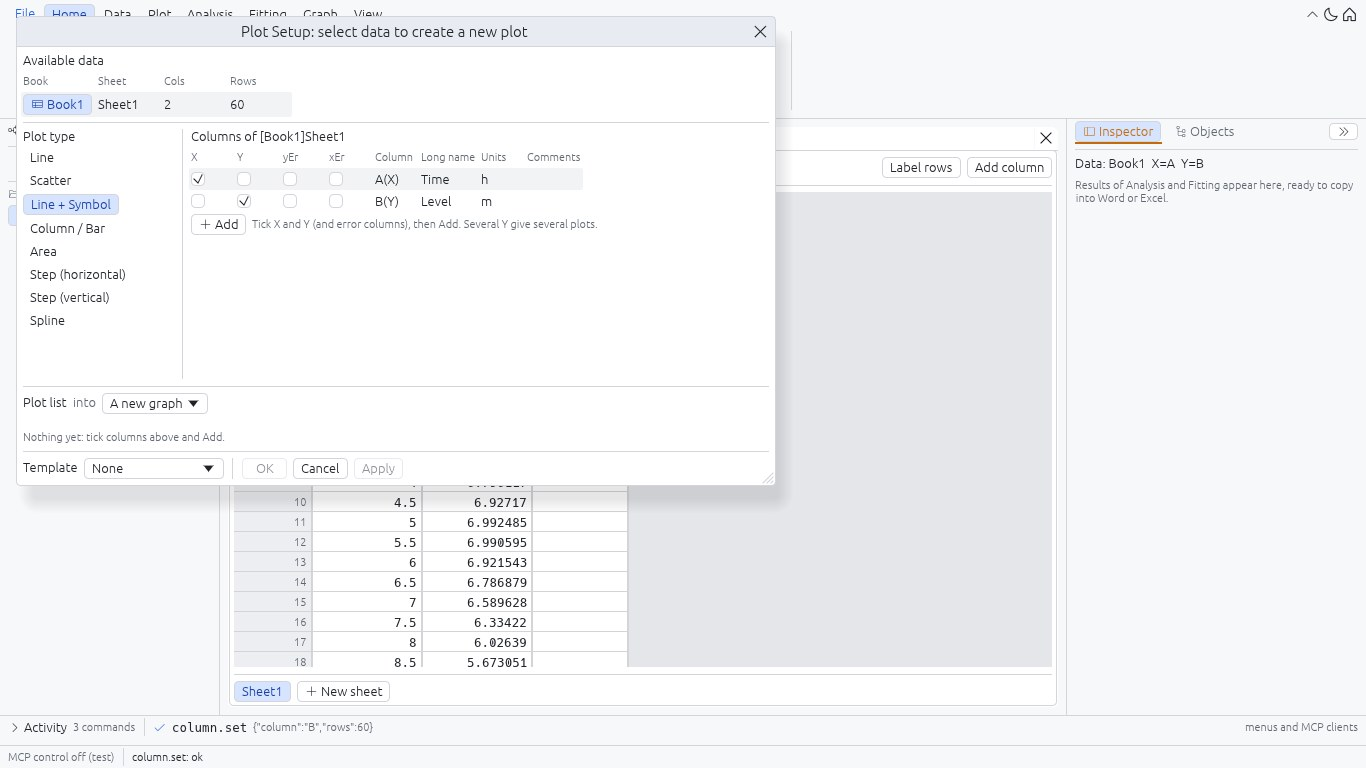
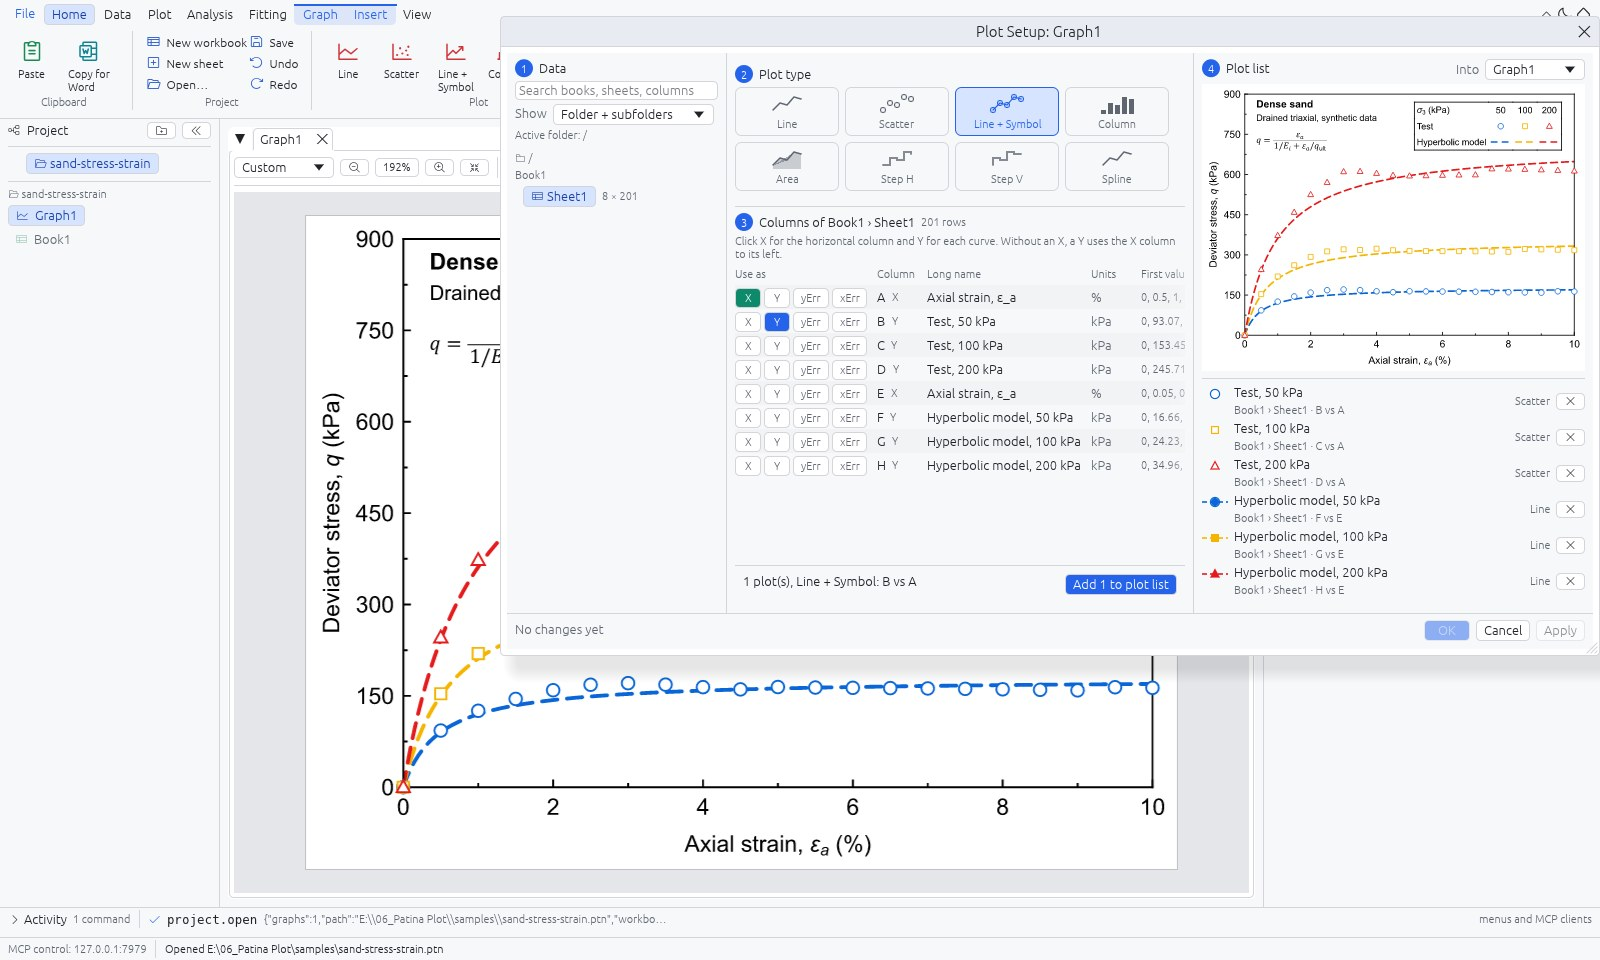
The new Plot Setup in its picture

diff --git a/index.html b/index.html
@@ -183,9 +183,9 @@ claude mcp add patina-plot -- "/Applications/Patina Plot.app/Contents/MacOS/pati
       <figure class="sheet"><img src="assets/water-retention.png" width="1100" height="880" loading="lazy" alt="Water content against suction for a sand and a silt loam on a log axis with van Genuchten fits, residuals underneath and a table of the fitted parameters">
         <figcaption>van Genuchten fits on a log axis, residuals underneath, the parameters and
           plot samples in one table.</figcaption></figure>
-      <figure class="sheet wide"><img src="assets/feature-plot-setup.jpg" width="1366" height="768" loading="lazy" alt="The Plot Setup window choosing X and Y columns for several curves at once">
-        <figcaption>Plot Setup picks the columns for many curves at once, with their error columns
-          and panels.</figcaption></figure>
+      <figure class="sheet wide"><img src="assets/feature-plot-setup.jpg" width="1600" height="960" loading="lazy" alt="The Plot Setup window: the sheets of the project, the columns marked X and Y, the plot types, and a preview of the graph with its six plots listed">
+        <figcaption>Plot Setup: mark X, Y and error columns on any sheet, pick the plot type, and
+          see the graph before you press OK.</figcaption></figure>
     </div>
     <div class="out" style="margin-top: var(--s11)">
       <div><h3>Copy for Word</h3><p>An EMF and a PNG on the clipboard; Word and PowerPoint paste
